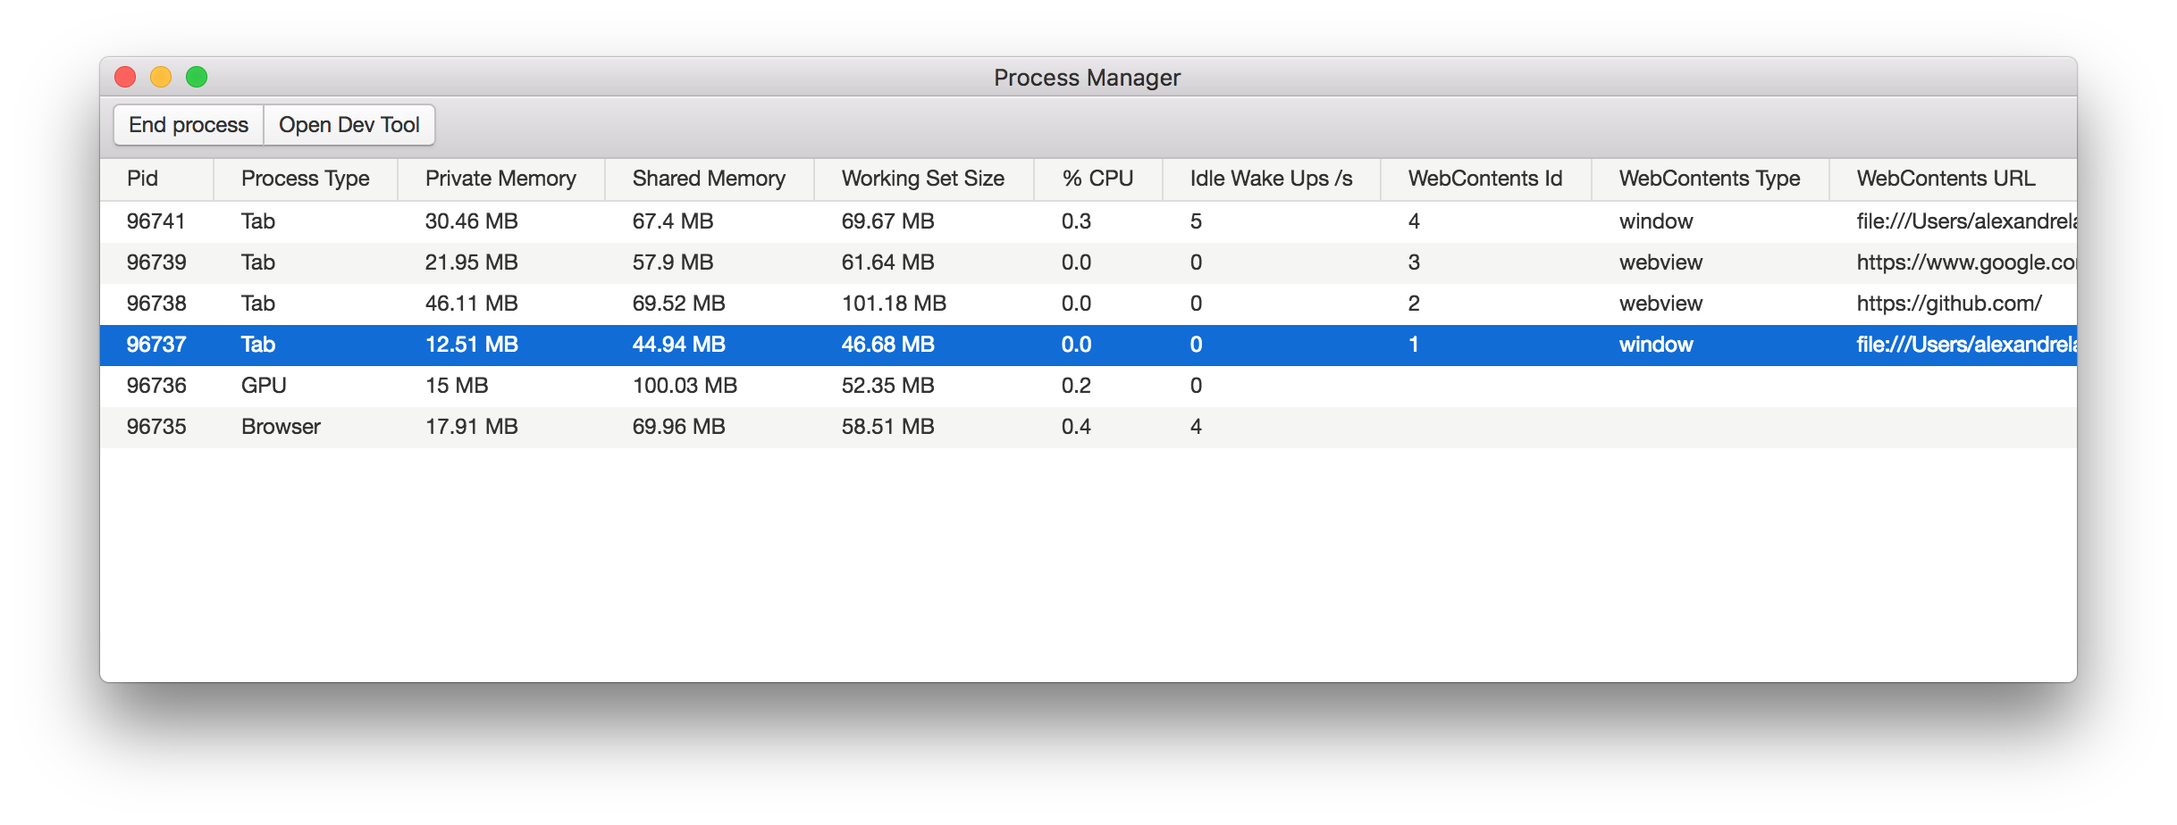
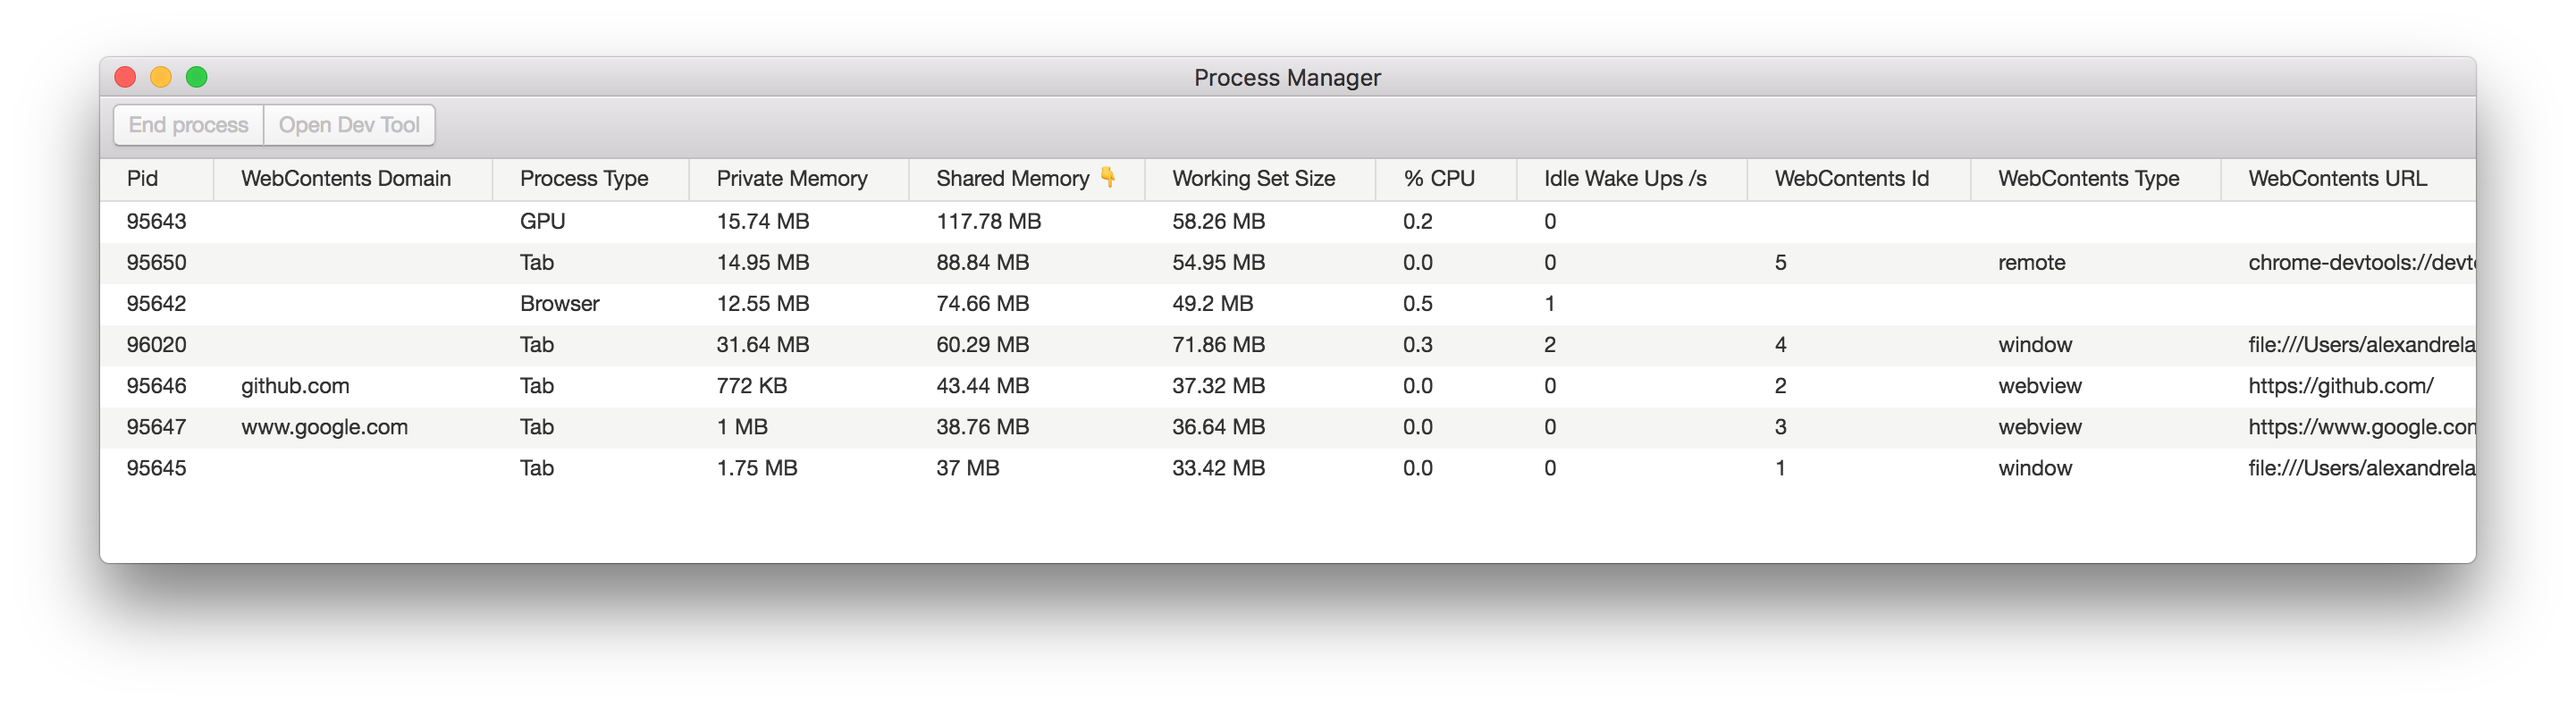
Update README

diff --git a/README.md b/README.md
@@ -21,6 +21,7 @@ It's inspired from Chrome's task manager.
 - [x] Kill a process from the UI
 - [x] Open developer tools for a given process
 - [x] CPU metrics
+- [x] Sort by columns
 
 ## Installation
 
@@ -37,7 +38,6 @@ openProcessManager();
 
 ## Future
 
-- Be able to sort columns
 - Add physical memory (noted as "Memory" in Chrome's task manager)
 - Add networks metrics
 
